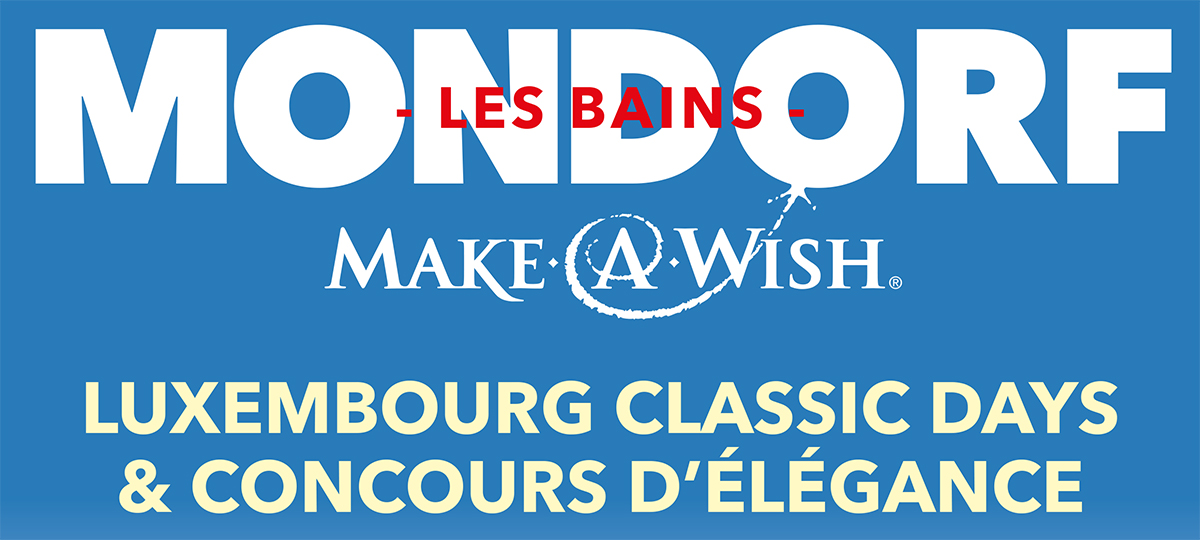
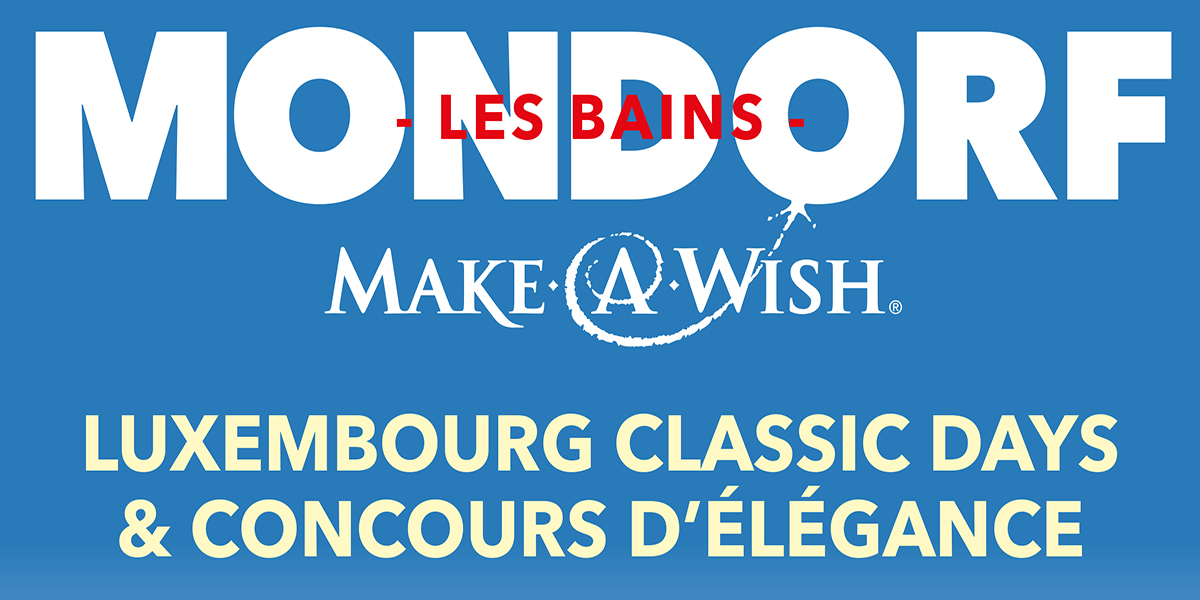
modifications diverses du layout + font century gothic

diff --git a/public/assets/css/style.css b/public/assets/css/style.css
@@ -1,4 +1,11 @@
+@font-face {
+    font-family: "century-gothic";
+    src: url('../fonts/ufonts.com_century_gothic__2_.eot'); 
+    src: url('../fonts/ufonts.com_century-gothic.ttf') format('truetype');
+}
+
 body{
+  font-family: "century-gothic";
 	margin: auto;
 	padding-top: 30px;
 }

diff --git a/app/templates/default/aboutUs.php b/app/templates/default/aboutUs.php
@@ -15,7 +15,7 @@
             <span class="help-block"></span>
             <img src="<?= $this->assetUrl('img/albert.jpg')?>" style="width: 170px; height: 170px;" alt="" class="img-responsive img-thumbnail center-block">
             <p class="text-center">Albert WETZ</p>
-
+            <span class="help-block"></span>
             <p>C'est un grand honneur pour nous de vous accueillir à la 4ième édition du Make-A-Wish Concours d'Elégance & Luxembourg Classic Days 2016<br/>
             Cette manifestation de l'automobile et du lotocycle classe est un événement non-lucratif  créé afin de recueillir des fonds pour Make-A-Wish Luxembourg asbl, organisation qui exauce les voeux d'enfants aux Luxembourg, âgés entre 3 et 17 ansn atteints de maladies graves.<br/>
             La 3ième édition en 2015 fut de nouveau un grand succès.<br/>
@@ -25,6 +25,7 @@
             <p>Un GRAND MERCI à vous tous!</p>
             <p>Bienvenue au Make-A-Wish Concours d'Elégance & Luxembourg Classic Days 2016.</p>
             <p>Albert WETZ & Marcel HAGENDOORN</p>
+            <span class="help-block"></span>
         </div>
     </div>
 
@@ -33,7 +34,7 @@
             <span class="help-block"></span>
             <img src="<?= $this->assetUrl('img/marcel.jpg')?>" style="width: 170px; height: 170px;" alt="" class="img-responsive img-thumbnail center-block">
             <p class="text-center">Marcel HAGENDOORN</p>
-
+            <span class="help-block"></span>
             <p>It is a great honour for us to welcome you to the 4th edition of the Make-A-Wish Concours d'Elégance & Luxembourg Classic Days 2016. As you may be aware this event is based on a non-profit basis created to raise funds for Make-A-Wish Luxemboourg asbl, organisation that grants wihses of children livinf in Luxembourg, aged between 3 and 17 years, with life-threatening medical condition.<br/>
             The 3rd edition was a edition in 2015was a huge success again.<br/>
             We would like to mention some of the reasons taht contributed to this success: we were fortunates to have a lovely weather wich attracted 7000 visitors on the unique site of the Parc du Domaine thermale de Mondorf-les-Bains. They enjoyed about 140 cars and motorcylces ranging from 1898, so as entertainment adn fodd as well.<br/>
@@ -43,6 +44,7 @@
             <p>A BIG THANKS to all of you!</p>
             <p>Welcome to the Make-A-Wish COncours d'Elégance & Luxembourg Classic Days 2016.</p>
             <p>Albert WETZ & Marcel HAGENDOORN</p>
+            <span class="help-block"></span>
         </div>
     </div>
 </div>
@@ -55,8 +57,8 @@
             </div>
 
             <div class="col-sm-4 text-center">
+                <span class="help-block"></span>
                 <p><a href="mailto: info@concours-mondorf.lu" target="_blank">info@concours-mondorf.lu</a></p>
-                <p><a href="http://www.facebook.com/concoursMondorf" target="_blank"><span class="fa fa-facebook-square fa-2x" aria-hidden="true"></span>/concoursMondorf</a></p>
             </div>
 
             <div class="col-sm-4 text-center">

diff --git a/app/templates/layout.php b/app/templates/layout.php
@@ -23,7 +23,6 @@
         <link rel="stylesheet" href="<?= $this->assetUrl('lib/css/bootstrap-theme.min.css') ?>">
         <link rel="stylesheet" type="text/css" href="https://cdnjs.cloudflare.com/ajax/libs/font-awesome/4.6.3/css/font-awesome.css">
         <link rel="stylesheet" href="<?= $this->assetUrl('css/style.css') ?>">
-
         <script src="https://ajax.googleapis.com/ajax/libs/jquery/1.12.4/jquery.min.js"></script>
         <script src="http://maxcdn.bootstrapcdn.com/bootstrap/3.3.6/js/bootstrap.min.js"></script>
 

diff --git a/app/templates/news/NewsDetails.php b/app/templates/news/NewsDetails.php
@@ -39,6 +39,7 @@
         <h4>Liste de galeries associées à <?= $newsDetails['con_title'] ?></h4>
         <?php foreach ($galeriesId as $key => $value) : ?>
         <a href="<?= $this->url('galerie_photos', ['id' => $value['id']]) ?>"><?= $value['gal_name'] . '<br/> ' . $value['gal_legend'] ?></a>
+        <span class="help-block"></span>
         <?php endforeach ?>
     </div>
     <?php endif; ?> 
